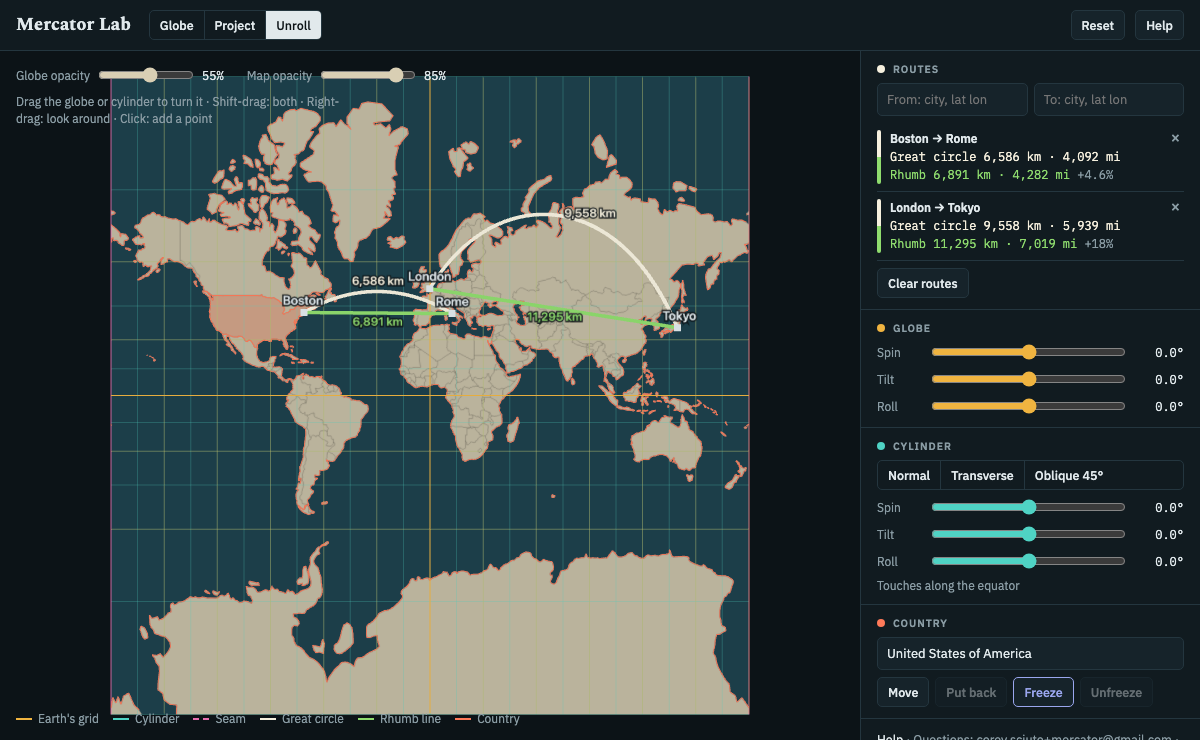
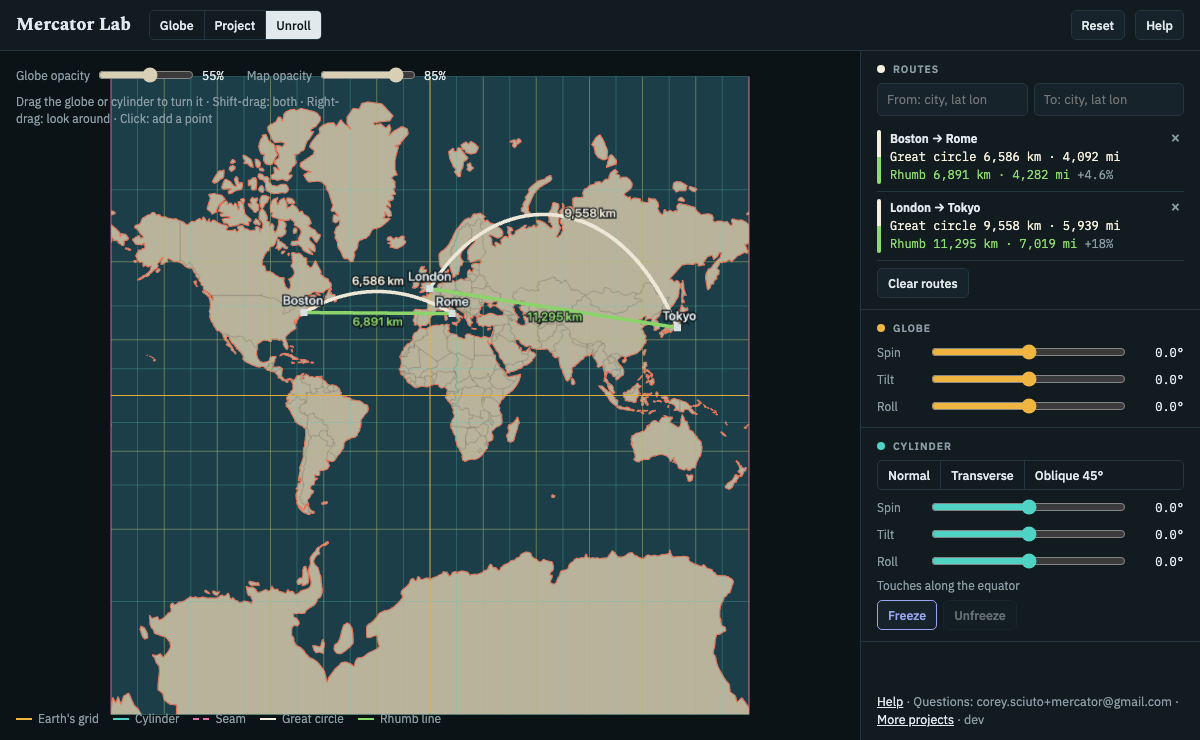
Remove Move country and the country picker; Freeze moves to the Cylinder section

Changed region(s): [[0.7092, 0.8081, 0.9867, 1.0], [0.1542, 0.373, 0.2467, 0.4662], [0.4008, 0.9635, 0.4317, 0.9946]]

diff --git a/app.js b/app.js
@@ -6,7 +6,6 @@ const css = n => getComputedStyle(document.documentElement).getPropertyValue(n).
 const COL = { earth: css("--earth"), cyl: css("--cyl"), seam: css("--seam"), b: css("--b"), a: css("--a"), bg: css("--bg"), gc: css("--gcl"), rh: css("--rhl"), ink: css("--ink") };
 
 // ---------------- data ----------------
-const FEATURES = topojson.feature(WORLD, WORLD.objects.countries).features.filter(f => f.properties && f.properties.name);
 const COAST = topojson.mesh(WORLD, WORLD.objects.countries, (a, b) => a === b);
 const LANDGEO = topojson.feature(WORLD, WORLD.objects.countries);
 
@@ -27,24 +26,7 @@ const SRC = {
   coast: toVecs(COAST.coordinates),
   grat: toVecs([-60, -30, 30, 60].map(parallel).concat([-150, -120, -90, -60, -30, 30, 60, 90, 120, 150, 180].map(l => meridian(l)))),
   eq: toVecs([parallel(0), meridian(0)]),
-  hi: [],
 };
-let HI = { name: "", centroid: [0, 0], poly: null };
-function setCountry(name) {
-  const f = FEATURES.find(f => f.properties.name.toLowerCase() === name.toLowerCase());
-  if (!f) return false;
-  const polys = f.geometry.type === "Polygon" ? [f.geometry.coordinates] : f.geometry.coordinates;
-  // keep the largest part (contiguous US, mainland France...)
-  let best = polys[0], bestA = -1;
-  for (const p of polys) { const a = d3.geoArea({ type: "Polygon", coordinates: p }); if (a < 2 * Math.PI && a > bestA) { bestA = a; best = p; } }
-  HI = { name: f.properties.name, centroid: d3.geoCentroid({ type: "Polygon", coordinates: best }), poly: { type: "Polygon", coordinates: best } };
-  mapKey = "";
-  SRC.hi = toVecs(best);
-  dirty = true;
-  return true;
-}
-$("countries").innerHTML = FEATURES.map(f => f.properties.name).sort().map(n => `<option value="${n.replace(/"/g, "&quot;")}"></option>`).join("");
-
 // ---------------- state ----------------
 // step: 0 globe, 2 projected, 3 unrolled (the buttons; 1, an empty cylinder, is no longer offered). s: 0 on the globe → 1 on the cylinder → 2 flat (animated).
 const S = {
@@ -53,8 +35,7 @@ const S = {
   globeOpacity: 0.55, mapOpacity: 0.85,
   routes: [], from: null,   // from: {c, name} waiting for a To
   A: null,                  // frozen map: projected segments on the cylinder
-  moved: null,              // {G0}: the globe before a country was moved
-  armed: false, busy: false,
+
 };
 let dirty = true, routesVer = 0;
 const M = () => mmul(mT(S.C), S.G); // the globe in the cylinder's frame: all the map depends on
@@ -179,8 +160,7 @@ const mapGeo = (() => {
 const mapMesh = new THREE.Mesh(mapGeo, mapMat); mapMesh.frustumCulled = false; mapMesh.renderOrder = -1; scene.add(mapMesh);
 let mapKey = "", mapDrawn = 0, mapTimer = 0;
 function drawMap(force) {
-  const base = S.moved && S.A ? S.A.M : M();
-  const key = JSON.stringify([base, M(), HI.name, !!S.moved]);
+  const base = M(), key = JSON.stringify(base);
   if (key === mapKey) return;
   const now = performance.now();
   if (!force && now - mapDrawn < 120) { clearTimeout(mapTimer); mapTimer = setTimeout(() => { dirty = true; drawMap(true); }, 130); return; } // at most ~8 redraws a second while dragging
@@ -191,7 +171,6 @@ function drawMap(force) {
   const p = d3.geoPath(proj(base), g);
   g.beginPath(); p(LANDGEO); g.fillStyle = "#d9cfb4"; g.fill();
   g.beginPath(); p(BORDERS); g.strokeStyle = "rgba(40,40,30,0.45)"; g.lineWidth = 0.8; g.stroke();
-  if (HI.poly) { const q = d3.geoPath(proj(M()), g); g.beginPath(); q(HI.poly); g.fillStyle = S.moved ? "rgba(255,122,89,0.75)" : "rgba(255,122,89,0.35)"; g.fill(); }
   mapTex.needsUpdate = true;
 }
 function placeMap(s) {
@@ -210,8 +189,8 @@ function dynLines(color, opacity, max = 120000) {
 }
 const L = {
   wire: dynLines(COL.cyl, 0.26, 20000), wireHi: dynLines(COL.cyl, 0.95, 4000), seam: dynLines(COL.seam, 0.9, 2000),
-  coast: dynLines(COL.b, 0.9), grat: dynLines(COL.earth, 0.3, 30000), eq: dynLines(COL.earth, 1, 4000), hi: dynLines(COL.b, 1, 20000),
-  aCoast: dynLines(COL.a, 0.7), aEq: dynLines(COL.a, 0.9, 6000), aHi: dynLines(COL.a, 1, 20000),
+  coast: dynLines(COL.b, 0.9), grat: dynLines(COL.earth, 0.3, 30000), eq: dynLines(COL.earth, 1, 4000), 
+  aCoast: dynLines(COL.a, 0.7), aEq: dynLines(COL.a, 0.9, 6000),
 };
 // routes are drawn as tubes so they stay visible on the busy cylinder; rebuilt whenever the scene changes
 const routeGroup = new THREE.Group(); scene.add(routeGroup);
@@ -333,7 +312,7 @@ function placePoint(v, s) {
 }
 
 // ---------------- routes ----------------
-const routesShown = () => S.moved ? [] : S.routes;   // hidden while a country is moved: they'd have turned with the globe
+const routesShown = () => S.routes;
 const nameOf = c => cityAt(c, PLACES) || fmtLL(c);
 let RV = null, RVver = -1;
 function routeVecs() {
@@ -373,7 +352,6 @@ function renderRoutes() {
   const ul = $("routes"); ul.innerHTML = "";
   const note = t => { const li = document.createElement("li"); li.className = "empty"; li.textContent = t; ul.append(li); };
   if (!S.routes.length) return note("No routes yet");
-  if (S.moved) return note("Hidden while a country is moved");
   for (const r of S.routes) {
     const st = routeStats(r.a, r.b), li = document.createElement("li");
     const both = km => `${fmtNum(km, km)} km · ${fmtNum(km * KM_MI, km)} mi`;
@@ -390,7 +368,6 @@ function pickPoint(c, name) {
   if (gcDist(S.from.c, c) < 0.5) return;
   S.routes.push({ a: S.from.c, b: c, an: S.from.name, bn: name });
   S.from = null; $("from").value = ""; $("to").value = "";
-  if (S.moved) putBack();
   routesChanged();
 }
 function clickName(c) { const p = nearestPlace(PLACES, c, 50); return p ? p[0] : fmtLL(c); }
@@ -399,9 +376,9 @@ function clickName(c) { const p = nearestPlace(PLACES, c, 50); return p ? p[0] :
 let PB = null, PBkey = "";
 function rebuild() {
   const Mr = M();
-  const key = JSON.stringify([Mr, HI.name]);
+  const key = JSON.stringify(Mr);
   if (key !== PBkey) {
-    PB = { coast: projectLines(SRC.coast, Mr), grat: projectLines(SRC.grat, Mr), eq: projectLines(SRC.eq, Mr), hi: projectLines(SRC.hi, Mr) };
+    PB = { coast: projectLines(SRC.coast, Mr), grat: projectLines(SRC.grat, Mr), eq: projectLines(SRC.eq, Mr) };
     PBkey = key;
   }
   const s = S.s, Gg = S.G, Cg = S.C;
@@ -428,18 +405,16 @@ function rebuild() {
   writeLines(L.seam, scratch, on ? placeOnCyl(WIRE.seam, s, Cg, scratch) : 0);
 
   // the projected map exists only once Project starts; before that the globe's own texture is the map
-  const proj = s > 0.001, whole = proj && !S.moved;
+  const whole = s > 0.001;
   writeLines(L.coast, scratch, whole ? placeLive(PB.coast, s, Gg, Cg, scratch) : 0);
   writeLines(L.grat, scratch, whole ? placeLive(PB.grat, s, Gg, Cg, scratch) : 0);
   writeLines(L.eq, scratch, whole ? placeLive(PB.eq, s, Gg, Cg, scratch) : 0);
-  writeLines(L.hi, scratch, placeLive(PB.hi, s, Gg, Cg, scratch));
   drawRoutes(s);
 
   if (S.A && on) {
     writeLines(L.aCoast, scratch, placeOnCyl(S.A.coast, s, Cg, scratch));
     writeLines(L.aEq, scratch, placeOnCyl(S.A.eq, s, Cg, scratch));
-    writeLines(L.aHi, scratch, placeOnCyl(S.A.hi, s, Cg, scratch));
-  } else ["aCoast", "aEq", "aHi"].forEach(k => writeLines(L[k], scratch, 0));
+  } else ["aCoast", "aEq"].forEach(k => writeLines(L[k], scratch, 0));
 
   // endpoints and labels
   const pa = ptsGeo.attributes.position.array; let np = 0;
@@ -471,8 +446,6 @@ function updateReadout() {
     euler(R).forEach((v, i) => { const el = $(p + i); if (document.activeElement !== el) el.value = v.toFixed(1); $(p + i + "o").textContent = v.toFixed(1) + "°"; });
   }
   for (const i of [0, 2, 3]) $("st" + i).setAttribute("aria-pressed", S.step === i);
-  $("putBack").disabled = !S.moved || S.busy;
-  $("move").disabled = S.busy;
   $("clearA").disabled = !S.A;
   $("lgA").hidden = !(S.A && S.cylOn);
   $("bench").classList.toggle("cylOff", !S.cylOn);
@@ -534,33 +507,12 @@ async function animateTo(Gt, Ct, ms = 1000) {
 // at the Globe step, turning the cylinder brings it out, map projected
 function showCylinder() { if (S.step === 0) setStep(2); }
 
-// ---------------- country, freeze ----------------
+// ---------------- freeze ----------------
 function freeze() {
   const Mr = M(), segsOf = lines => projectLines(lines, Mr).segs;
-  S.A = { M: Mr, coast: segsOf(SRC.coast), eq: segsOf(SRC.eq), hi: segsOf(SRC.hi) };
+  S.A = { M: Mr, coast: segsOf(SRC.coast), eq: segsOf(SRC.eq) };
   dirty = true;
 }
-// turn the globe so the country's center lands on t (cylinder lon/lat), north kept up; the map before stays frozen
-async function moveCountryTo(t) {
-  if (S.busy) return;
-  S.busy = true;
-  if (!S.moved) { if (!S.A) freeze(); S.moved = { G0: S.G }; routesVer++; renderRoutes(); }
-  const C0 = S.C, G0 = S.G, q = lonlat(mv(M(), vec(...HI.centroid)));
-  let dl = t[0] - q[0]; dl = ((dl + 540) % 360) - 180;
-  await tween(1400, k => {
-    const e = ease(k), tk = [q[0] + dl * e, q[1] + (t[1] - q[1]) * e];
-    S.G = orthonormalize(mmul(C0, mmul(moveRotation(q, tk), mmul(mT(C0), G0))));
-  });
-  S.busy = false; dirty = true;
-}
-async function putBack() {
-  if (!S.moved) return;
-  const G0 = S.moved.G0;
-  S.moved = null; routesVer++; renderRoutes();
-  await animateTo(G0, S.C, 900);
-}
-function arm(on) { S.armed = on; $("move").classList.toggle("on", on); $("move").textContent = on ? "Click a spot" : "Move"; setHover(hoverTarget, true); }
-
 // ---------------- input ----------------
 const HINT = "Drag the globe or cylinder to turn it · Shift-drag: both · Right-drag: look around · Click: add a point";
 const HOVER_HINT = {
@@ -574,8 +526,8 @@ $("dragHint").textContent = HINT;
 function setHover(t, force) {
   if (t === hoverTarget && !force) return;
   hoverTarget = t; dirty = true;
-  cv.style.cursor = S.armed && (t === "globe" || t === "sheet") ? "crosshair" : t === "view" || !t ? "default" : "grab";
-  $("dragHint").textContent = S.armed ? "Click where the country should go · Esc: cancel" : t ? HOVER_HINT[t] : HINT;
+  cv.style.cursor = t === "view" || !t ? "default" : "grab";
+  $("dragHint").textContent = t ? HOVER_HINT[t] : HINT;
 }
 
 const cv = renderer.domElement;
@@ -608,7 +560,6 @@ function sheetHit(r) {
 }
 // a click at cylinder lon/lat t (on the globe or the sheet)
 function clickAt(t) {
-  if (S.armed) { arm(false); moveCountryTo(t); return; }
   const c = lonlat(mv(mT(M()), vec(...t)));
   pickPoint(c, clickName(c));
 }
@@ -638,7 +589,7 @@ cv.addEventListener("pointermove", e => {
   }
   const dx = e.clientX - drag.x, dy = e.clientY - drag.y; drag.x = e.clientX; drag.y = e.clientY;
   if (drag.target === "view") { cam.yaw -= dx * 0.008; cam.pitch = Math.max(-1.45, Math.min(1.45, cam.pitch + dy * 0.008)); placeCamera(); dirty = true; return; }
-  if (S.busy) return;
+
   camera.updateMatrixWorld();
   const e2 = camera.matrixWorld.elements;
   const right = fromThree([e2[0], e2[1], e2[2]]), up = fromThree([e2[4], e2[5], e2[6]]);
@@ -673,15 +624,11 @@ $("pr-obl").onclick = () => { showCylinder(); animateTo(S.G, d3R(0, 0, -45)); };
 $("mapOpacity").addEventListener("input", e => { S.mapOpacity = +e.target.value / 100; $("mapo").textContent = e.target.value + "%"; dirty = true; });
 $("opacity").addEventListener("input", e => { S.globeOpacity = +e.target.value / 100; $("opo").textContent = e.target.value + "%"; dirty = true; });
 $("clearRoutes").onclick = () => { S.routes = []; S.from = null; $("from").value = ""; $("to").value = ""; routesChanged(); };
-$("country").addEventListener("change", e => { if (!setCountry(e.target.value)) e.target.value = HI.name; });
-$("move").onclick = () => arm(!S.armed);
-$("putBack").onclick = putBack;
 $("freeze").onclick = () => { freeze(); showCylinder(); };
 $("clearA").onclick = () => { S.A = null; dirty = true; };
-// Reset: this step's starting state (globe, cylinder, view, opacity, frozen map, moved country); step and routes stay
+// Reset: this step's starting state (globe, cylinder, view, opacity, frozen map); step and routes stay
 $("reset").onclick = async () => {
-  arm(false); S.A = null; S.from = null; $("from").value = ""; $("to").value = "";
-  if (S.moved) { S.moved = null; routesVer++; renderRoutes(); }
+  S.A = null; S.from = null; $("from").value = ""; $("to").value = "";
   S.globeOpacity = 0.55; $("opacity").value = 55; $("opo").textContent = "55%";
   S.mapOpacity = 0.85; $("mapOpacity").value = 85; $("mapo").textContent = "85%";
   if (S.step === 3) { await animateTo(ident(), ident(), 700); faceSheet(); }
@@ -689,8 +636,7 @@ $("reset").onclick = async () => {
 };
 window.addEventListener("keydown", e => {
   if (e.key !== "Escape") return;
-  if (S.armed) arm(false);
-  else if (S.from && !(e.target.closest && e.target.closest("input"))) { S.from = null; $("from").value = ""; dirty = true; }
+  if (S.from && !(e.target.closest && e.target.closest("input"))) { S.from = null; $("from").value = ""; dirty = true; }
 });
 
 // ---------------- loop ----------------
@@ -706,15 +652,14 @@ function frame() {
   renderer.render(scene, camera);
   requestAnimationFrame(frame);
 }
-setCountry("United States of America");
 (routesFromHash(location.hash) || []).forEach(r => S.routes.push({ a: r.a, b: r.b, an: nameOf(r.a), bn: nameOf(r.b) }));
 routesChanged();
 placeCamera(); resize();
 window.addEventListener("DOMContentLoaded", () => requestAnimationFrame(frame)); // search.js loads after this file
 
 // hooks for tests
-window.__lab = { S, M, hi: () => HI, globe: () => ({ opacity: globeMat.opacity, depthWrite: globeMat.depthWrite }),
+window.__lab = { S, M, globe: () => ({ opacity: globeMat.opacity, depthWrite: globeMat.depthWrite }),
   screenOf: p => { scene.updateMatrixWorld(); const v = new THREE.Vector3(...p).project(camera), r = cv.getBoundingClientRect(); return [r.left + (v.x + 1) / 2 * r.width, r.top + (1 - v.y) / 2 * r.height]; },
-  idle: () => running === 0 && !dirty, freeze, moveCountryTo, putBack, setStep, setCountry, animateTo,
+  idle: () => running === 0 && !dirty, freeze, setStep, animateTo,
   map: () => ({ visible: mapMesh.visible, opacity: mapMat.opacity }),
   counts: () => Object.assign(Object.fromEntries(Object.entries(L).map(([k, o]) => [k, o.geometry.drawRange.count])), { routes: routeGroup.children.length }) };

diff --git a/index.html b/index.html
@@ -172,7 +172,6 @@ kbd { font: 500 11px var(--f-data); border: 1px solid var(--line); border-radius
         <span class="cylOnly"><i class="sw seam"></i>Seam</span>
         <span><i class="sw gcl"></i>Great circle</span>
         <span><i class="sw rhl"></i>Rhumb line</span>
-        <span><i class="sw b"></i>Country</span>
         <span id="lgA" hidden><i class="sw a"></i>Frozen map</span>
       </div>
     </section>
@@ -212,15 +211,7 @@ kbd { font: 500 11px var(--f-data); border: 1px solid var(--line); border-radius
         <div class="slider"><label for="c1">Tilt</label><input type="range" id="c1" min="-90" max="90" step="0.5" value="0"><output id="c1o">0°</output></div>
         <div class="slider"><label for="c2">Roll</label><input type="range" id="c2" min="-180" max="180" step="0.5" value="0"><output id="c2o">0°</output></div>
         <p class="note" id="touch">Touches along the equator</p>
-      </div>
-
-      <div class="sec" id="countrySec">
-        <h2><span class="dot" style="background:var(--b)"></span>Country</h2>
-        <input id="country" class="txt" list="countries" value="United States of America" aria-label="Country">
-        <datalist id="countries"></datalist>
         <div class="row">
-          <button class="btn" id="move" title="Then click where it should go">Move</button>
-          <button class="btn" id="putBack" disabled>Put back</button>
           <button class="btn a" id="freeze" title="Keep a copy of the current map on the cylinder">Freeze</button>
           <button class="btn" id="clearA" disabled>Unfreeze</button>
         </div>

diff --git a/help.html b/help.html
@@ -58,6 +58,7 @@
         <b>Transverse</b> along a meridian, <b>Oblique</b> along a tilted circle. Turning both together changes
         nothing.</li>
       <li><b>Globe opacity</b> and <b>Map opacity</b> set how see-through the globe and the filled map on the cylinder are.</li>
+      <li><b>Freeze</b> keeps a copy of the current map on the cylinder, to compare with another cylinder position; <b>Unfreeze</b> removes it.</li>
       <li><b>Reset</b> puts the globe, cylinder and view back where this step starts; the step and routes stay.</li>
     </ul>
   </section>
@@ -76,18 +77,6 @@
     </ul>
   </section>
 
-  <section id="country">
-    <h2>Moving a country</h2>
-    <p>Size-comparison maps slide a country across the globe and redraw it.</p>
-    <ul>
-      <li>Pick a country, press <b>Move</b>, then click where it should go. The rest of the map is frozen where it
-        was; routes hide until <b>Put back</b>.</li>
-      <li>Moved north, it lands where the cylinder stretches more and its borders bend. Example: move the United
-        States over Europe and unroll.</li>
-      <li><b>Freeze</b> keeps a copy of the current map on the cylinder to compare against; <b>Unfreeze</b>
-        removes it.</li>
-    </ul>
-  </section>
 </main>
 <footer>
   Questions: corey.sciuto+mercator@gmail.com · <a href="https://corey.sciu.to/projects/">More projects</a> · City search: <a href="https://www.geonames.org/">GeoNames</a>

diff --git a/e2e/smoke.spec.js b/e2e/smoke.spec.js
@@ -150,20 +150,13 @@ test('Unroll: the map faces you and a click adds a point; Reset stays on Unroll 
   await expect(page.locator(ROUTE)).toHaveCount(2);
 });
 
-test('Move a country: the old map stays frozen, routes hide, Put back restores them', async ({ page }) => {
+test('Freeze keeps the map on the cylinder; Unfreeze removes it', async ({ page }) => {
   await page.goto(APP + BOS_ROM);
-  await page.locator('#st3').click(); await idle(page);
-  await page.evaluate(() => window.__lab.moveCountryTo([15, 50])); await idle(page);
-  await expect(page.locator(READY)).toHaveText('Hidden while a country is moved');
-  let c = await counts(page);
-  expect(c.aCoast).toBeGreaterThan(0);         // frozen automatically
-  expect(c.coast).toBe(0);                     // only the moved country is live
-  expect(c.hi).toBeGreaterThan(0);
-  await page.locator('#putBack').click(); await idle(page);
-  await expect(page.locator(ROUTE)).toHaveCount(1);
-  await page.locator('#clearA').click();
-  c = await counts(page);
-  expect(c.aCoast).toBe(0);
+  await page.locator('#st2').click(); await idle(page);
+  await page.locator('#freeze').click(); await idle(page);
+  expect((await counts(page)).aCoast).toBeGreaterThan(0);
+  await page.locator('#clearA').click(); await idle(page);
+  expect((await counts(page)).aCoast).toBe(0);
 });
 
 test('fits a phone: nothing scrolls sideways', async ({ page }) => {

diff --git a/sphere.js b/sphere.js
@@ -85,8 +85,4 @@ function cylPoint(theta, h) { return [Math.cos(theta), Math.sin(theta), h]; }
 // same point after unrolling onto the plane tangent at θ = 0
 function flatPoint(theta, h) { return [1, theta, h]; }
 
-// Moving a country: the rigid rotation taking q to t while keeping north pointing north at the moved point.
-// Spin q onto the 0° meridian, slide it along that meridian to t's latitude, spin out to t's longitude.
-function moveRotation(q, t) { return mmul(Rz(rad(t[0])), mmul(Ry(rad(t[1] - q[1])), Rz(rad(-q[0])))); }
-
-if (typeof module !== 'undefined') module.exports = { MAXH, vec, lonlat, mmul, mT, mv, ident, Rz, Ry, Rx, d3R, euler, axisAngle, orthonormalize, toThree, fromThree, matToThree, matFromThree, cylH, cylLat, touchLabel, cylPoint, flatPoint, moveRotation };
+if (typeof module !== 'undefined') module.exports = { MAXH, vec, lonlat, mmul, mT, mv, ident, Rz, Ry, Rx, d3R, euler, axisAngle, orthonormalize, toThree, fromThree, matToThree, matFromThree, cylH, cylLat, touchLabel, cylPoint, flatPoint };

diff --git a/tests/sphere.test.js b/tests/sphere.test.js
@@ -18,12 +18,6 @@ test('d3R and euler round-trip', () => {
   near(l, 30); near(p, -20); near(g, 45);
 });
 
-test('moving a country takes its point exactly to the target', () => {
-  const q = [-98, 39], t = [10, 50];
-  const got = S.lonlat(S.mv(S.moveRotation(q, t), S.vec(...q)));
-  near(got[0], t[0]); near(got[1], t[1]);
-});
-
 test('Mercator heights invert and match psi', () => {
   for (const lat of [-60, -10, 0, 25, 70]) near(S.cylLat(S.cylH(rad(lat))), rad(lat), 1e-12);
   near(S.cylH(rad(45)), psi(rad(45)));

diff --git a/README.md b/README.md
@@ -12,8 +12,7 @@ follow along.
   `42.36N 71.06W`), or a click on the globe or map. Each route is drawn as a great circle and a rhumb line, with
   both distances and the rhumb line's extra.
 - **Globe and cylinder:** turn either one, or both. Normal, transverse and oblique presets. Globe opacity.
-- **Country:** move one across the globe against a frozen copy of the map to see why size-comparison maps bend
-  its borders.
+- **Freeze:** keep a copy of the map on the cylinder to compare cylinder positions.
 
 Routes live in the address (`#routes=lon,lat,lon,lat;…`). Older `#lines=` links and `/unroll/` links still open.
 
